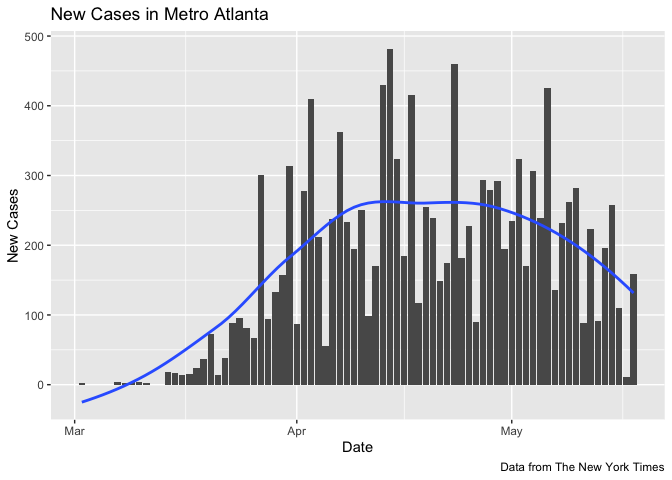
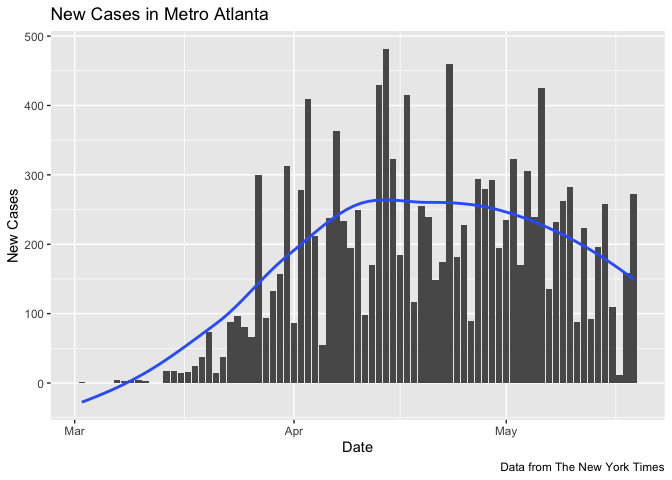
Updated data

diff --git a/Metro_Atlanta_COVID.md b/Metro_Atlanta_COVID.md
@@ -16,7 +16,7 @@ It’s hard to know how to interpret these numbers since there are major
 known unknowns. Neither confirmed cases nor deaths can be said to be
 reliable counts of the true numbers.
 
-Data current as of May 19,
+Data current as of May 20,
 2020.
 
 # Metro Atlanta
